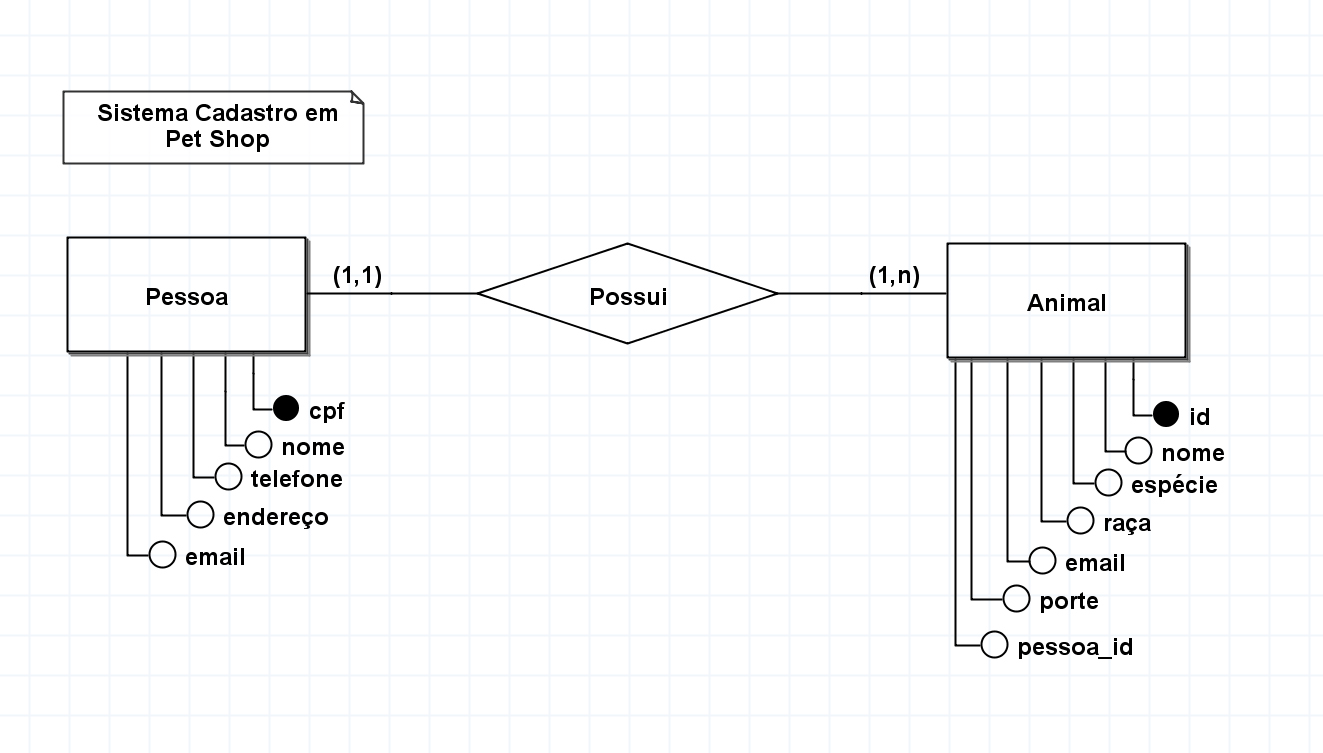
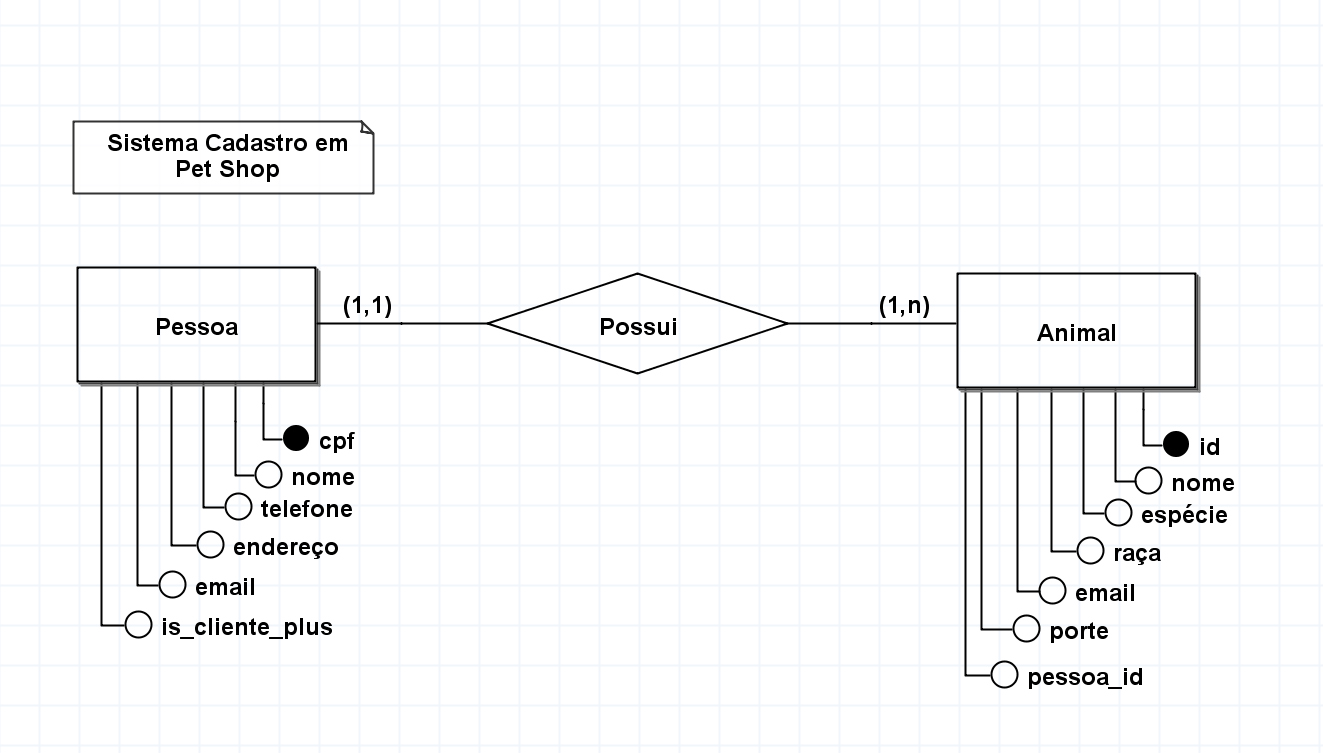
+ novo atributo para pessoa

diff --git a/database/migrations/2019_07_20_160446_create_pessoas_table.php b/database/migrations/2019_07_20_160446_create_pessoas_table.php
@@ -13,6 +13,7 @@ class CreatePessoasTable extends Migration
      */
     public function up()
     {
+        
         Schema::create('pessoas', function (Blueprint $table) {
             $table->bigIncrements('id');
             $table->string('cpf')->unique()->nullable();
@@ -20,15 +21,10 @@ class CreatePessoasTable extends Migration
             $table->string('telefone');
             $table->string('endereco');
             $table->string('email')->unique()->nullable();
-            //$table->unsignedBigInteger('animal_id')->nullable();
+            $table->boolean('is_cliente_plus');
             $table->timestamps();
         });
 
-        /**
-        *Schema::table('pessoas', function (Blueprint $table) {
-        *    $table->foreign('animal_id')->references('id')->on('animals')->onDelete('set null'); 
-        *});
-        **/
     }
 
     /**

diff --git a/app/Http/Controllers/PessoaController.php b/app/Http/Controllers/PessoaController.php
@@ -30,7 +30,8 @@ class PessoaController extends Controller
         $Pessoa->nome = $request->nome;
         $Pessoa->telefone = $request->telefone;
         $Pessoa->endereco = $request->endereco;
-        $Pessoa->email = $request->email;
+		$Pessoa->email = $request->email;
+		$Pessoa->is_cliente_plus = $request->is_cliente_plus;
 		$Pessoa->save();
 
 		return response()->success($Pessoa);
@@ -53,6 +54,8 @@ class PessoaController extends Controller
                 $Pessoa->endereco = $request->endereco;
             if($request->email) 
 				$Pessoa->email = $request->email;
+			if($request->is_cliente_plus) 
+				$Pessoa->is_cliente_plus = $request->is_cliente_plus;
 		
 			$Pessoa->save();
 			return response()->success($Pessoa);
